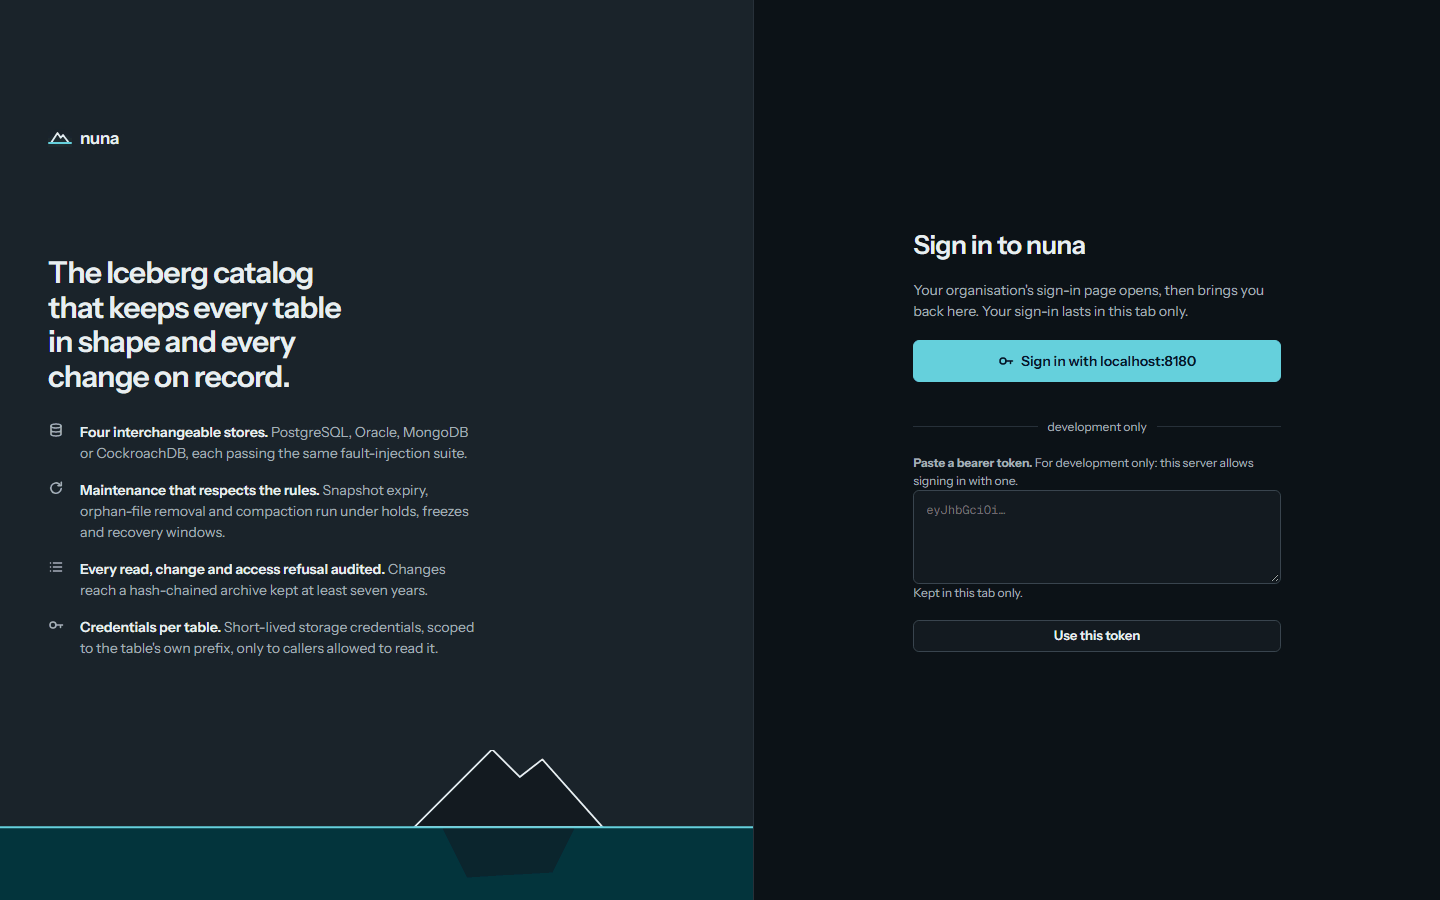
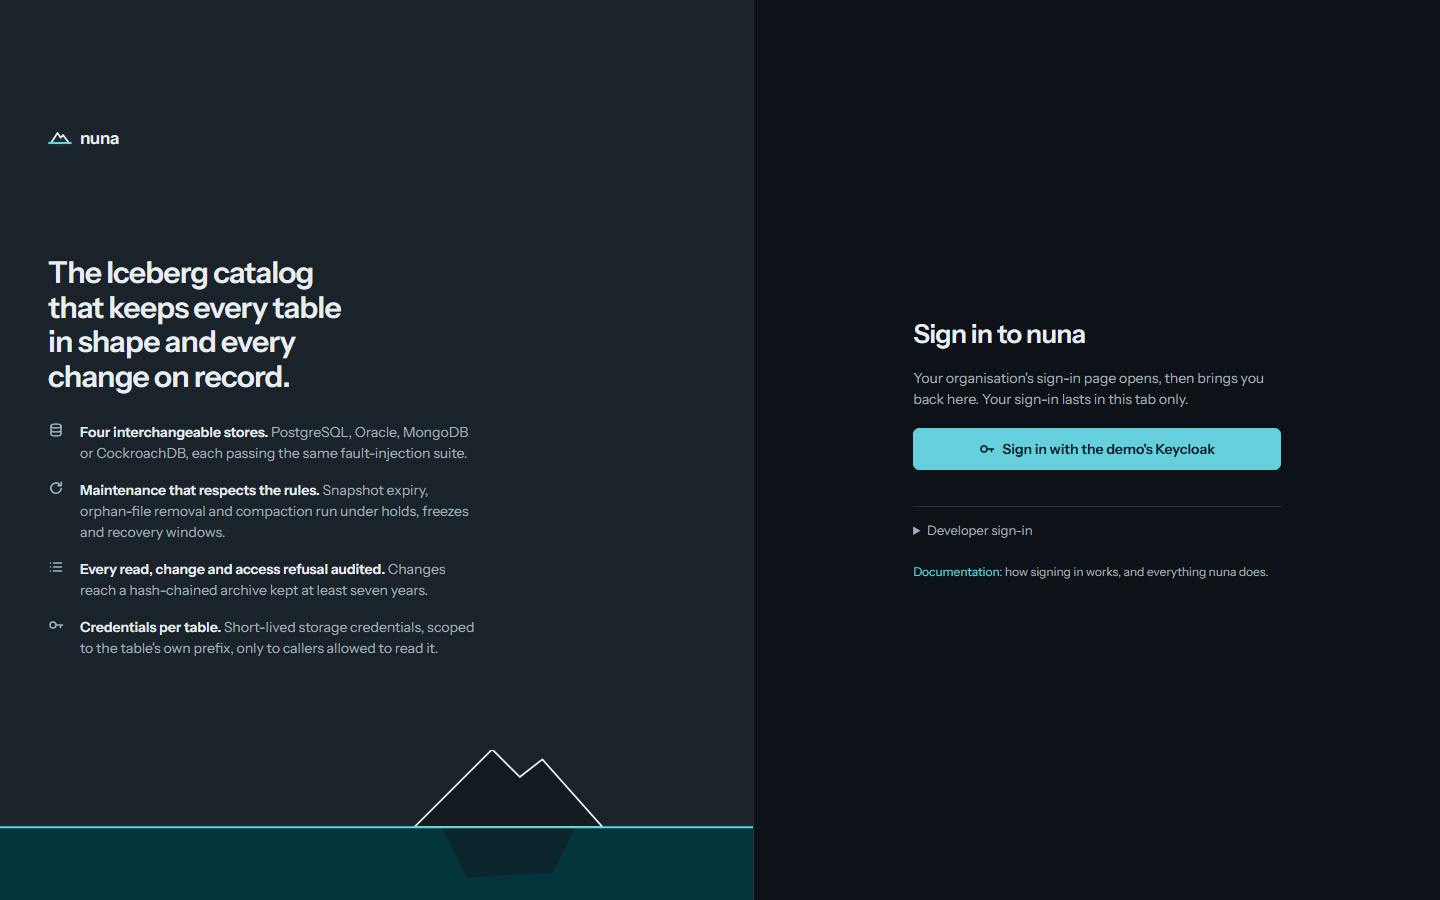
Backlog 332: retake the sign-in screenshots with the IdP's name and the Developer sign-in fold

diff --git a/docs/site/console/sign-in.html b/docs/site/console/sign-in.html
@@ -42,7 +42,7 @@
         <li>With developer tokens: a box labelled <b class="ui">Bearer token</b>, the words "Paste a bearer token. For development only: this server allows signing in with one." and the button <b class="ui">Use this token</b>. When an identity provider is also set, all three sit folded, closed, under <b class="ui">Developer sign-in</b>; with none, they are the only way in and stay open.</li>
         <li>With neither: "No sign-in is set up on this server. Ask whoever runs nuna to connect your organisation's sign-in."</li>
       </ul>
-      <figure class="shot" id="fig-console-sign-in"><img src="../img/shots/console-sign-in-light.png" data-dark="../img/shots/console-sign-in-dark.png" width="1440" height="900" alt="The signed-out sign-in page: on the left what nuna is, on the right Sign in to nuna with a button for the identity provider and, under development only, a box to paste a bearer token."><figcaption>The sign-in page with an identity provider and the developer token box.</figcaption></figure>
+      <figure class="shot" id="fig-console-sign-in"><img src="../img/shots/console-sign-in-light.png" data-dark="../img/shots/console-sign-in-dark.png" width="1440" height="900" alt="The signed-out sign-in page: on the left what nuna is, on the right Sign in to nuna with the button Sign in with the demo's Keycloak and, beneath it, the closed fold Developer sign-in."><figcaption>The demo's sign-in page: its identity provider by name, and the developer token box folded under Developer sign-in.</figcaption></figure>
 
       <h2 id="sign-in-through-identity-provider">Sign in through your identity provider</h2>
       <ol class="steps">
